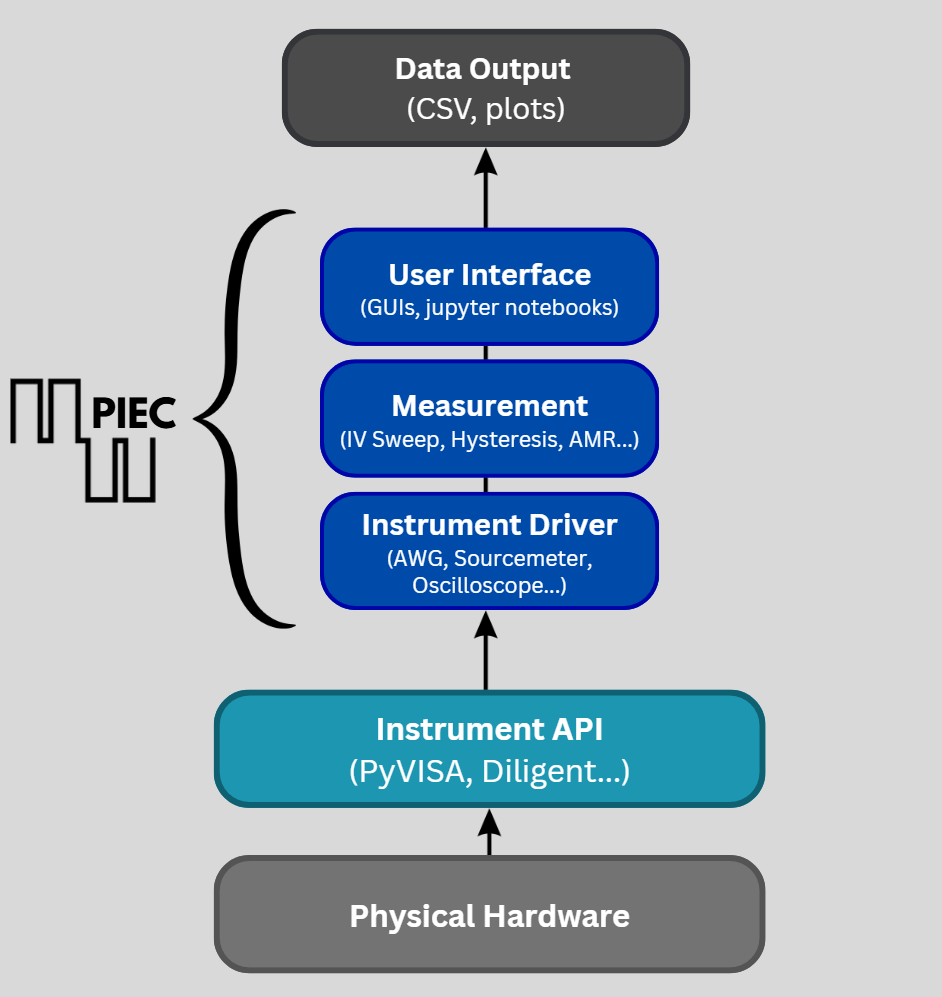
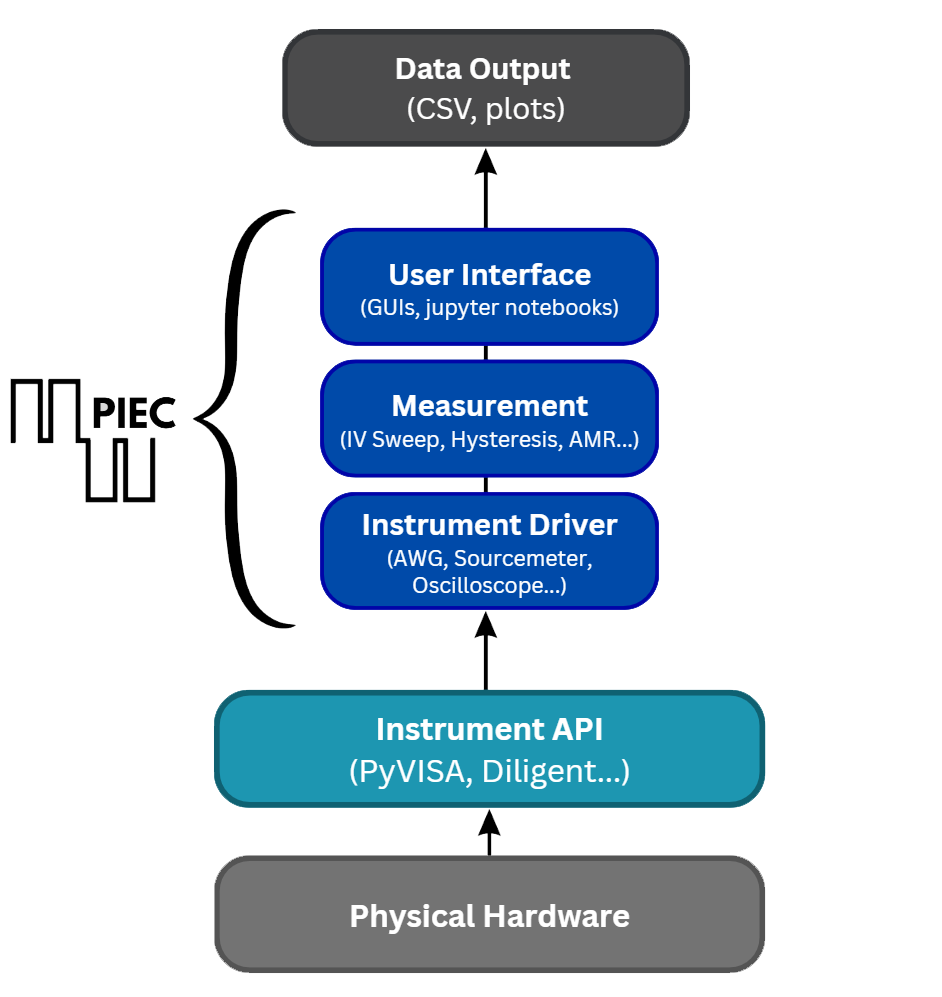
Update diagram

diff --git a/paper.md b/paper.md
@@ -1,5 +1,5 @@
 ---
-title: 'PIEC: A Python Library for Integrated Experimental Control'
+title: 'PIEC: A Modular Python Package for Easy and Scalable Laboratory Automation'
 tags:
   - Python
   - laboratory automation
@@ -62,6 +62,7 @@ Third, while existing frameworks provide robust scripting environments, they are
 
 The main principle behind `PIEC`'s instrument control design is to provide a user-friendly API that researchers can use to ensure continuity between different instrument manufacturers and experimental setups. The instrument drivers are designed with a “type-first” philosophy, and can be understood as having three layers of abstraction.
 
+![Diagram of PIEC architecture](docs/source/_static/PIEC_diagram.png){width="40%"}
 
 Within `piec.drivers`, the base `Instrument` class (Level 1) is a parent class which defines the minimum requirements of any instrument driver in general, wrapping PyVISA [@pyvisa] for resource management. The `Scpi` child class optionally extends this with vetted implementations for Standard Commands for Programmable Instruments (SCPI)-compliant devices [@scpi1999spec]. Driver classes (Level 2) — such as `Oscilloscope`, `Awg`, `lockin`—define the required methods and parameter standards for the drivers to implement. Specific instrument models (Level 3) inherit from these classes and implement the hardware-specific logic. Each instrument category also provides a `VirtualInstrument` that returns simulated responses, enabling development and testing without physical hardware.
 
@@ -70,8 +71,6 @@ Within `piec.drivers`, the base `Instrument` class (Level 1) is a parent class w
 On top of this three-level standardized instrument control, within `piec.measurement` we provide `Measurement` classes that coordinate multiple drivers to implement complete experiment protocols. For example, `HysteresisLoop` configures an AWG to output a triangular voltage waveform, triggers an oscilloscope to capture applied voltage and displacement current, integrates the current to compute polarization, and saves the P-E loop to a structured file, all in a single method call. Each `Measurement` class initializes using instrument objects that match the required instrument types for the particular measurement. It then calls functions from the instrument objects to produce the correct calls to the hardware. Further analysis methods in the `Measurement` class process the data, save data files in a standard ‘.csv’ format along with added metadata. The format consists of a metadata table with an arbitrary number of rows and one column at the top of the file, followed by a data table with an arbitrary number of rows and columns. This choice was made to provide human readability and ease of use, while maintaining a structured, machine-readable architecture required for automated analysis.
 
 Finally, in the top-level Measurement repository, GUIs are provided using a class in ‘piec.measurement.gui_utils.py’ which leverages tkinter and Matplotlib [@hunter2007matplotlib], as well as python notebooks where the measurement and driver classes can be run directly. Useful background on measurements is included in the notebooks as well as markdown files in the same directory.
-
-![Diagram of PIEC architecture](docs/source/_static/PIEC_diagram.png){width="80%"}
 
 The layered architecture means that a researcher can work at whatever level their experiment requires, whether that is coding driver methods for new setups, creating `Measurement` classes for running experiments, or using the pre-existing graphical interfaces for routine tasks without writing code. Throughout the workflow, standard Python packages such as NumPy [@harris2020array], and Pandas [@the_pandas_development_team_2026_19340003].
 